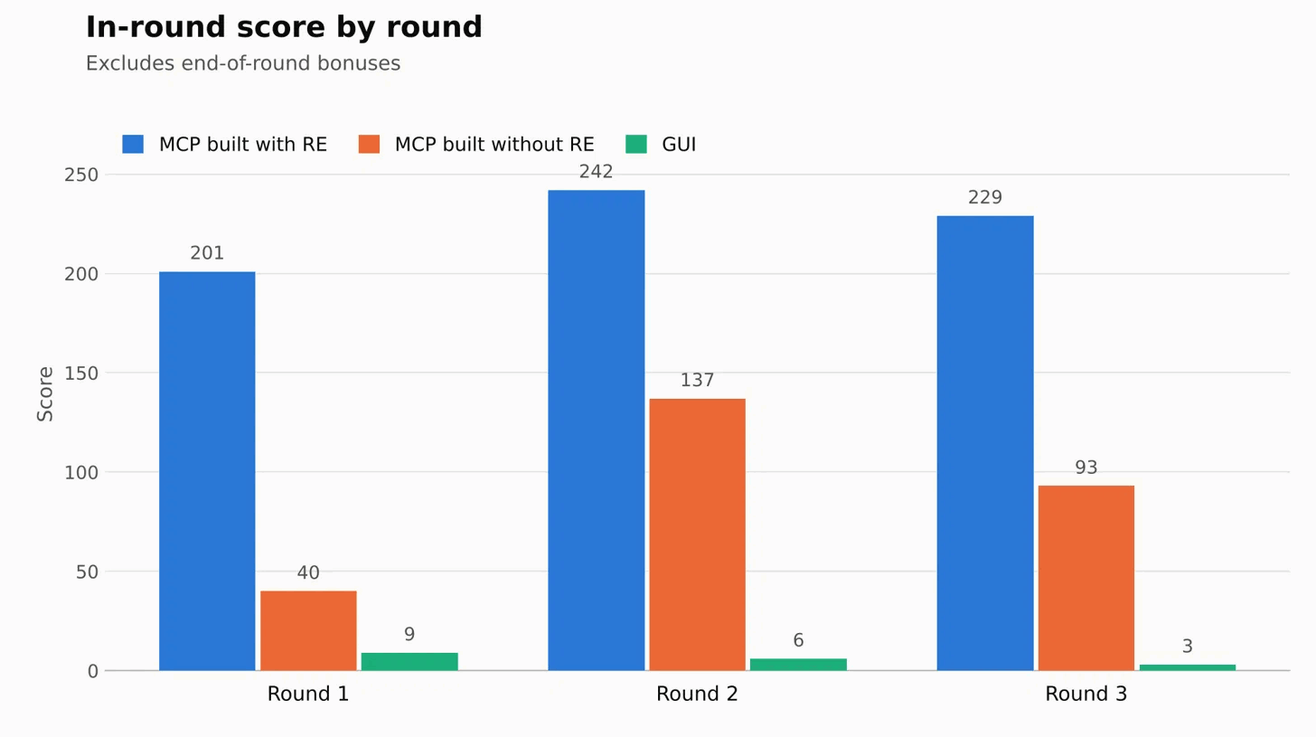
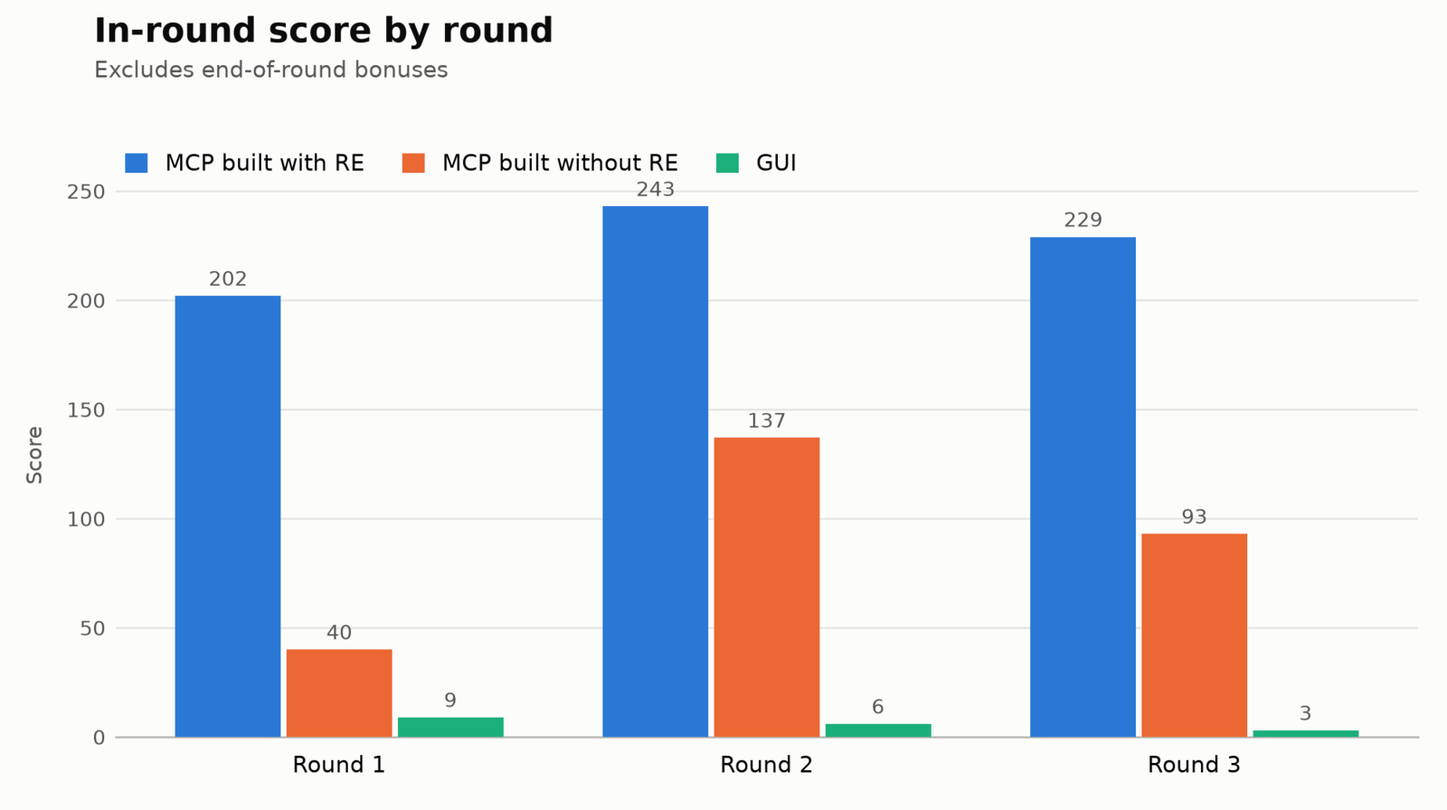
Replace the GLM-5.3 build data with the DeepSeek V4.1 Flash build
The build section still described GLM-5.3's build. Figures 1 to 3, the
build numbers and the related sentences now come from the first
DeepSeek V4.1 Flash build in the run evidence: 37 minutes, 203 tool
calls, 85 tools, a Python server that injects an agent into the running
FreeCAD with Frida.

Each call in Figure 2 is assigned to a step by its command: try, review,
finish and direct runs of the server are Check, edits under /output/mcp
are Build, probes against the running FreeCAD are Test, and the static
inspection in the first minute is Analyze.

Also from the evidence: the lid-vent example call, the longest-task
time (87 seconds), the three build times, and the five tools of the
Fruit Ninja server that Kimi K3 built. The in-round chart is redrawn
with the corrected scores for rounds 1 and 2 (202 and 243).

diff --git a/index.html b/index.html
@@ -80,7 +80,7 @@
       <span>Click a step to see what the agent did in it.</span>
     </div>
 
-    <svg class="pipe-svg pipe-wide" viewBox="0 0 760 300" role="img" aria-label="The build loop: input package, then analyze, test, build, check, with feedback from checking back to building and testing, and an MCP server as output. REA is used in the analyze and test steps, shell and file tools in every step, and the image build and test run in the check step.">
+    <svg class="pipe-svg pipe-wide" viewBox="0 0 760 300" role="img" aria-label="The build loop: input package, then analyze, test, build, check, with feedback from checking back to building and testing, and an MCP server as output. REA is used in the analyze and test steps, shell and file tools in every step, and trial runs and reviews in the check step.">
       <defs>
         <marker id="pw-a" viewBox="0 0 10 10" refX="9" refY="5" markerWidth="7" markerHeight="7" orient="auto-start-reverse"><path class="mk" d="M0 0 L10 5 L0 10 z"/></marker>
         <marker id="pw-b" viewBox="0 0 10 10" refX="9" refY="5" markerWidth="7" markerHeight="7" orient="auto-start-reverse"><path class="mk-acc" d="M0 0 L10 5 L0 10 z"/></marker>
@@ -89,9 +89,9 @@
         <rect x="2" y="42" width="100" height="196" rx="8"/>
         <text x="52" y="66" text-anchor="middle" class="t-h">Input</text>
         <text x="52" y="90" text-anchor="middle">FreeCAD 0.20.2</text>
-        <text x="52" y="105" text-anchor="middle">.deb packages</text>
-        <text x="52" y="120" text-anchor="middle">63 ELF files</text>
-        <text x="52" y="135" text-anchor="middle" class="t-mono">manifest.json</text>
+        <text x="52" y="105" text-anchor="middle">installed and</text>
+        <text x="52" y="120" text-anchor="middle">running on</text>
+        <text x="52" y="135" text-anchor="middle">a desktop</text>
         <line x1="14" x2="90" y1="150" y2="150"/>
         <text x="52" y="170" text-anchor="middle" class="t-neg">no source</text>
         <text x="52" y="185" text-anchor="middle" class="t-neg">no docs</text>
@@ -159,7 +159,7 @@
       <g class="rail">
         <line class="tool-link" x1="574" y1="176" x2="574" y2="206"/>
         <rect x="518" y="206" width="112" height="26" rx="13"/>
-        <text class="m-rea" x="574" y="223" text-anchor="middle">build image, run it</text>
+        <text class="m-rea" x="574" y="223" text-anchor="middle">try, review, finish</text>
         <text class="m-mem" x="574" y="223" text-anchor="middle">build image only</text>
       </g>
       <g class="rail">
@@ -172,12 +172,12 @@
         <text x="709" y="66" text-anchor="middle" class="t-h">Output</text>
         <text x="709" y="89" text-anchor="middle" class="t-mono">mcp/</text>
         <text x="709" y="103" text-anchor="middle">server + script</text>
-        <text x="709" y="123" text-anchor="middle" class="t-mono">env/</text>
-        <text x="709" y="137" text-anchor="middle">Dockerfile</text>
-        <text x="709" y="157" text-anchor="middle" class="t-mono">evidence/</text>
-        <text x="709" y="171" text-anchor="middle">REA logs, probes</text>
+        <text x="709" y="123" text-anchor="middle" class="t-mono">mcp/deps/</text>
+        <text x="709" y="137" text-anchor="middle">Frida</text>
+        <text x="709" y="157" text-anchor="middle" class="t-mono">intermediate/</text>
+        <text x="709" y="171" text-anchor="middle">notes</text>
         <line x1="672" x2="746" y1="186" y2="186"/>
-        <text x="709" y="208" text-anchor="middle" class="t-strong m-rea">19 working tools</text>
+        <text x="709" y="208" text-anchor="middle" class="t-strong m-rea">85 working tools</text>
         <text x="709" y="208" text-anchor="middle" class="t-strong m-mem">fails on call 1</text>
       </g>
     </svg>
@@ -190,7 +190,7 @@
       <g class="io">
         <rect x="8" y="4" width="344" height="76" rx="8"/>
         <text x="180" y="26" text-anchor="middle" class="t-h">Input</text>
-        <text x="180" y="47" text-anchor="middle">FreeCAD 0.20.2 .deb packages, 63 ELF files</text>
+        <text x="180" y="47" text-anchor="middle">FreeCAD 0.20.2, installed and running on a desktop</text>
         <text x="180" y="66" text-anchor="middle" class="t-neg">no source, no docs, no network, no tasks</text>
       </g>
       <line class="flow" x1="140" y1="80" x2="140" y2="102" marker-end="url(#pt-a)"/>
@@ -228,7 +228,7 @@
         <rect x="24" y="430" width="232" height="70" rx="8"/>
         <circle class="badge" cx="44" cy="450" r="10"/><text class="badge-t" x="44" y="454" text-anchor="middle">4</text>
         <text class="t-st" x="62" y="455">Check</text>
-        <text class="t-tool m-rea" x="246" y="455" text-anchor="end">shell + image build</text>
+        <text class="t-tool m-rea" x="246" y="455" text-anchor="end">shell + try</text>
         <text class="t-tool m-mem" x="246" y="455" text-anchor="end">shell + image build</text>
         <text class="t-sub m-rea" x="62" y="476">real calls through the built server</text>
         <text class="t-sub m-mem" x="62" y="476">build image, list tools only</text>
@@ -246,50 +246,50 @@
       <g class="io">
         <rect x="8" y="552" width="344" height="92" rx="8"/>
         <text x="180" y="574" text-anchor="middle" class="t-h">Output</text>
-        <text x="180" y="595" text-anchor="middle">mcp/ server + script, env/Dockerfile, evidence/</text>
-        <text x="180" y="622" text-anchor="middle" class="t-strong m-rea">19 working tools</text>
+        <text x="180" y="595" text-anchor="middle">mcp/ server + script, mcp/deps/, intermediate/</text>
+        <text x="180" y="622" text-anchor="middle" class="t-strong m-rea">85 working tools</text>
         <text x="180" y="622" text-anchor="middle" class="t-strong m-mem">fails on the first call</text>
       </g>
     </svg>
 
     <div class="stage-detail" id="stage-detail" aria-live="polite"></div>
-    <figcaption><b>Figure 1.</b> The four steps of the build. The details come from GLM-5.3's FreeCAD build. A dashed arrow shows where the agent goes back to after a check fails. The bars under the steps show which tools the agent uses in each step.</figcaption>
+    <figcaption><b>Figure 1.</b> The four steps of the build. The details come from DeepSeek V4.1 Flash's FreeCAD build. A dashed arrow shows where the agent goes back to after a check fails. The bars under the steps show which tools the agent uses in each step.</figcaption>
   </figure>
 
   <!-- ===================================================== -->
   <h2 id="build">What does the agent spend its time on during a build?</h2>
-  <p>GLM-5.3's build for FreeCAD took 18 minutes and 152 tool calls. About two thirds of these calls tested the program. Writing the server took only 7 calls and about 20 seconds. For example, early in the build the agent found that FreeCAD's console program exits immediately if it is not started from a terminal, and it changed the server to start FreeCAD that way.</p>
-  <p>Each tool that comes out of a build does one whole operation. For example, the server that Kimi K2.6 built has a <code>boolean_cut</code> tool, so cutting a vent into the lid is one call, <code>boolean_cut(name=Vented2, base=Vented1, tool=Vent2)</code>. With computer use, the same model worked through FreeCAD's menus and dialogs for 40 minutes and did not cut any vent.</p>
+  <p>DeepSeek V4.1 Flash's build for FreeCAD took 37 minutes and 203 tool calls. About two fifths of these calls tested the program. Writing the server took 70 calls and about 6 minutes. For example, early in the build FreeCAD crashed when the agent called its functions from an injected thread, and the agent changed the server to run every call on FreeCAD's main thread.</p>
+  <p>Each tool that comes out of a build does one whole operation. For example, the server that DeepSeek V4.1 Flash built has a <code>freecad_part_boolean</code> tool, so cutting a vent into the lid is one call, <code>freecad_part_boolean(operation=cut, base=Vented1, tool=Vent2, name=Vented2, document=sensor_lid)</code>. With computer use, the same model worked through FreeCAD's menus and dialogs for 40 minutes and did not cut any vent.</p>
 
   <figure class="tl" id="fig-tl">
     <div class="tl-area">
       <div class="tl-marks" id="tl-marks"></div>
-      <div class="tl-track" id="tl-track" role="img" aria-label="Timeline of the 18-minute build: analyze until minute 3, test until minute 15.8, build until 16.1, check until 18.3."></div>
+      <div class="tl-track" id="tl-track" role="img" aria-label="Timeline of the 37-minute build: 12 analyze calls in the first minute, then 84 test calls, 70 build calls and 37 check calls that alternate until minute 37."></div>
       <div class="tl-ticks" id="tl-ticks" aria-hidden="true"></div>
       <div class="tl-axis" id="tl-axis" aria-hidden="true"></div>
       <p class="tl-unit">minutes into the build</p>
     </div>
     <div class="tl-legend">
-      <span><i class="sw st-1"></i>1 Analyze, 0–3 min</span>
-      <span><i class="sw st-2"></i>2 Test, 3–15.8 min</span>
-      <span><i class="sw st-3"></i>3 Build, 15.8–16.1 min</span>
-      <span><i class="sw st-4"></i>4 Check, 16.1–18.3 min</span>
+      <span><i class="sw st-1"></i>1 Analyze, 12 calls</span>
+      <span><i class="sw st-2"></i>2 Test, 84 calls</span>
+      <span><i class="sw st-3"></i>3 Build, 70 calls</span>
+      <span><i class="sw st-4"></i>4 Check, 37 calls</span>
     </div>
     <div class="tl-legend">
       <span><i class="sw sw-tick" style="background:var(--fg-2)"></i>shell or file call</span>
       <span><i class="sw sw-tick" style="background:var(--accent)"></i>REA call</span>
-      <span><i class="sw sw-tick" style="background:var(--ok);width:3px"></i>image build or smoke test</span>
+      <span><i class="sw sw-tick" style="background:var(--ok);width:3px"></i>try, review or finish</span>
     </div>
     <ol class="tl-list" id="tl-list"></ol>
-    <figcaption><b>Figure 2.</b> Every tool call in GLM-5.3's FreeCAD build. Click a number to read what the agent wrote at that moment.</figcaption>
+    <figcaption><b>Figure 2.</b> Every tool call in DeepSeek V4.1 Flash's FreeCAD build. Click a number to read what the agent wrote at that moment.</figcaption>
   </figure>
 
   <h3>How a tool call reaches FreeCAD</h3>
-  <p>The server lets the agent run FreeCAD's own operations with a tool call. It starts FreeCAD, attaches to it with Frida, and injects a small script into it. When the agent calls a tool, the script calls the matching FreeCAD functions inside the running program, for example to save a document or export a STEP file.</p>
+  <p>The server lets the agent run FreeCAD's own operations with a tool call. It finds the running FreeCAD, attaches to it with Frida, and injects a small script into it. When the agent calls a tool, the script calls the matching FreeCAD functions inside the running program, for example to save a document or export a STEP file.</p>
 
   <figure>
     <div class="scroll-x">
-      <svg class="mech" viewBox="0 0 760 300" role="img" aria-label="A task agent sends tools/call to the MCP server over stdio. The server has started FreeCAD under a PTY and attached Frida, and forwards each call to an agent script inside the FreeCAD process, which calls FreeCAD's Python modules through the C API. FreeCAD writes the project and export files.">
+      <svg class="mech" viewBox="0 0 760 300" role="img" aria-label="A task agent sends tools/call to the MCP server over stdio. The server finds the running FreeCAD process, attaches Frida, and forwards each call to an agent script inside the FreeCAD process, which calls FreeCAD's Python modules on the Qt main thread. FreeCAD writes the project and export files.">
         <defs>
           <marker id="m-a" viewBox="0 0 10 10" refX="9" refY="5" markerWidth="7" markerHeight="7" orient="auto-start-reverse"><path class="mk" d="M0 0 L10 5 L0 10 z"/></marker>
           <marker id="m-b" viewBox="0 0 10 10" refX="9" refY="5" markerWidth="7" markerHeight="7" orient="auto-start-reverse"><path class="mk-acc" d="M0 0 L10 5 L0 10 z"/></marker>
@@ -304,51 +304,51 @@
 
         <rect class="box" x="152" y="56" width="140" height="188" rx="8"/>
         <text x="222" y="80" text-anchor="middle" class="t-h">MCP server</text>
-        <text x="222" y="96" text-anchor="middle" class="t-mono">server.js, Node</text>
-        <text x="166" y="144" class="t-sub">starts FreeCAD</text>
-        <text x="166" y="160" class="t-sub">under a PTY</text>
+        <text x="222" y="96" text-anchor="middle" class="t-mono">server.py, Python</text>
+        <text x="166" y="144" class="t-sub">finds the running</text>
+        <text x="166" y="160" class="t-sub">FreeCAD process</text>
         <text x="166" y="180" class="t-sub">attaches with Frida</text>
         <text x="166" y="200" class="t-sub">forwards each call</text>
-        <text x="166" y="216" class="t-sub">as op(name, args)</text>
+        <text x="166" y="216" class="t-sub">as {op, args}</text>
 
         <rect class="proc" x="384" y="8" width="374" height="284" rx="10"/>
-        <text x="400" y="30" class="t-h">freecadcmd-python3</text>
+        <text x="400" y="30" class="t-h">freecad-python3</text>
 
         <line class="flow" x1="292" y1="100" x2="396" y2="100" marker-end="url(#m-a)"/>
-        <text x="338" y="92" text-anchor="middle" class="t-lab">spawn, PTY</text>
+        <text x="338" y="92" text-anchor="middle" class="t-lab">attach, Frida</text>
         <line class="flow" x1="292" y1="135" x2="396" y2="135" marker-end="url(#m-a)"/>
         <text x="338" y="127" text-anchor="middle" class="t-lab">inject script</text>
         <line class="flow-acc" x1="292" y1="180" x2="396" y2="180" marker-end="url(#m-b)"/>
-        <text x="338" y="172" text-anchor="middle" class="t-acc">op(name, args)</text>
+        <text x="338" y="172" text-anchor="middle" class="t-acc">{op, args}</text>
         <line class="flow" x1="398" y1="212" x2="294" y2="212" marker-end="url(#m-a)"/>
-        <text x="338" y="228" text-anchor="middle" class="t-lab">{ ok, data }</text>
+        <text x="338" y="228" text-anchor="middle" class="t-lab">result</text>
 
         <rect class="inj" x="398" y="66" width="176" height="166" rx="8"/>
-        <text x="486" y="88" text-anchor="middle" class="t-h">agent.js (injected)</text>
+        <text x="486" y="88" text-anchor="middle" class="t-h">agent.py (injected)</text>
         <text x="410" y="114" class="t-mono">PyGILState_Ensure</text>
-        <text x="410" y="138" class="t-mono">PyImport_ImportModule</text>
-        <text x="410" y="162" class="t-mono">PyObject_GetAttrString</text>
-        <text x="410" y="186" class="t-mono">PyObject_CallObject</text>
-        <text x="410" y="210" class="t-mono">PyGILState_Release</text>
+        <text x="410" y="138" class="t-mono">PyRun_SimpleString</text>
+        <text x="410" y="162" class="t-mono">PyGILState_Release</text>
+        <text x="410" y="186" class="t-mono">Unix socket server</text>
+        <text x="410" y="210" class="t-mono">Qt main thread</text>
 
         <rect class="box" x="604" y="66" width="140" height="112" rx="8"/>
         <text x="674" y="88" text-anchor="middle" class="t-h">Embedded Python</text>
-        <text x="674" y="110" text-anchor="middle" class="t-mono">FreeCAD, Part,</text>
-        <text x="674" y="128" text-anchor="middle" class="t-mono">Import, Mesh,</text>
-        <text x="674" y="146" text-anchor="middle" class="t-mono">MeshPart</text>
+        <text x="674" y="110" text-anchor="middle" class="t-mono">FreeCAD, FreeCADGui,</text>
+        <text x="674" y="128" text-anchor="middle" class="t-mono">Part, Sketcher,</text>
+        <text x="674" y="146" text-anchor="middle" class="t-mono">Mesh, Import</text>
 
         <line class="flow-acc" x1="574" y1="122" x2="602" y2="122" marker-end="url(#m-b)"/>
         <text x="588" y="114" text-anchor="middle" class="t-acc">calls</text>
 
         <rect class="box" x="604" y="206" width="140" height="66" rx="8"/>
-        <text x="674" y="228" text-anchor="middle" class="t-mono">/workspace</text>
+        <text x="674" y="228" text-anchor="middle" class="t-mono">/app/work</text>
         <text x="674" y="248" text-anchor="middle" class="t-sub">.FCStd .step</text>
         <text x="674" y="264" text-anchor="middle" class="t-sub">.iges .brep .stl</text>
         <line class="flow" x1="674" y1="178" x2="674" y2="204" marker-end="url(#m-a)"/>
         <text x="666" y="196" text-anchor="end" class="t-lab">FreeCAD writes</text>
       </svg>
     </div>
-    <figcaption><b>Figure 3.</b> How one tool call reaches FreeCAD in the server that GLM-5.3 built. The bronze parts are what the agent worked out by testing: the script it injects into FreeCAD and the calls the script makes.</figcaption>
+    <figcaption><b>Figure 3.</b> How one tool call reaches FreeCAD in the server that DeepSeek V4.1 Flash built. The bronze parts are what the agent worked out by testing: the script it injects into FreeCAD and the calls the script makes.</figcaption>
   </figure>
 
   <!-- ===================================================== -->
@@ -370,7 +370,7 @@
 
 
   <div class="exp-head" id="exp1"><span class="exp-num">Main result</span><h3>DeepSeek V4.1 Flash passed 100% of the checks with its MCP server and 40% with computer use</h3></div>
-  <p>DeepSeek V4.1 Flash does each task three times with its MCP server and three times with computer use. With computer use, DeepSeek passed 74% of the checks on the shortest task. On cable-slot and service-standoffs, it did not pass any check beyond the ones the starting file already passed. The MCP runs also cost less. The five tasks took 4.4 minutes with the MCP server, and 180.5 minutes with computer use. The build is a separate cost that the agent pays once per program, and GLM-5.3's build took 18 minutes.</p>
+  <p>DeepSeek V4.1 Flash does each task three times with its MCP server and three times with computer use. With computer use, DeepSeek passed 74% of the checks on the shortest task. On cable-slot and service-standoffs, it did not pass any check beyond the ones the starting file already passed. The MCP runs also cost less. The five tasks took 4.4 minutes with the MCP server, and 180.5 minutes with computer use. The build is a separate cost that the agent pays once per program, and DeepSeek V4.1 Flash's three builds took 37, 30 and 85 minutes.</p>
 
   <figure id="fig-exp1">
     <img class="chart-img" src="media/Freecad_1.png" width="1600" height="1000" decoding="async" alt="Total score in each of three runs, out of 63. Computer use: 27, 26 and 22. MCP server built with REA: 63 in every run. MCP server built without REA: 11 in every run.">
@@ -387,7 +387,7 @@
     <figcaption><b>Figure 6.</b> The time DeepSeek V4.1 Flash spent on each task, averaged over three runs.</figcaption>
   </figure>
 
-  <p>GLM-5.3 passed every check on all five tasks with the MCP server it built. It finished the longest task in 79 seconds on average.</p>
+  <p>DeepSeek V4.1 Flash passed every check on all five tasks with the MCP server it built. It finished the longest task in 87 seconds on average.</p>
 
   <figure id="fig-video">
     <p class="fig-title">Three of the five tasks, with the three runs shown side by side</p>
@@ -407,7 +407,7 @@
 
 
   <div class="exp-head" id="exp2"><span class="exp-num">Ablation</span><h3>A server that the agent writes without access to the program does not work</h3></div>
-  <p>FreeCAD's Python API is widely documented, so a model might be able to write the server from memory. To check this, we run the build again, but this time we do not give the agent REA or FreeCAD's files. On the five tasks, GLM-5.3's server did not pass any check beyond the starting file, and DeepSeek V4.1 Flash's server did not either. The servers that the same models built with REA both passed 100%. GLM-5.3's server written from memory failed on the first tool call, before the call reached any FreeCAD API.</p>
+  <p>FreeCAD's Python API is widely documented, so a model might be able to write the server from memory. To check this, we run the build again, but this time we do not give the agent REA or FreeCAD's files. On the five tasks, DeepSeek V4.1 Flash's server did not pass any check beyond the starting file. The server that the same model built with REA passed 100%.</p>
 
     <!-- ===================================================== -->
   <h2 id="fruit-ninja">In a closed-source, real-time game, the model scores 4.5× higher with its MCP server</h2>
@@ -420,21 +420,22 @@
   </figure>
 
   <figure id="fig-fn-play">
-    <img class="chart-img" src="media/F_ninja1.png" width="1456" height="815" decoding="async" alt="Points earned during play in each of three rounds. MCP server built with REA: 201, 242 and 229. MCP server built without REA: 40, 137 and 93. Computer use: 9, 6 and 3.">
+    <img class="chart-img" src="media/F_ninja1.png" width="1600" height="896" decoding="async" alt="Points earned during play in each of three rounds. MCP server built with REA: 202, 243 and 229. MCP server built without REA: 40, 137 and 93. Computer use: 9, 6 and 3.">
     <figcaption><b>Figure 9.</b> Kimi K3 at Fruit Ninja. The points earned during play in each round, without the bonuses.</figcaption>
   </figure>
 
-  <p>The server's <code>game_state</code> tool reads the score, the clock, and the fruit and bombs from the game process. Its <code>slice</code> tool plans one stroke through the fruit and performs it. The model does not need to find the fruit in an image.</p>
+  <p>The server's <code>get_state</code> tool reads the score and the fruit and bombs from the game process. Its <code>auto_play</code> tool plays for a given number of seconds. It reads the positions of the fruit many times per second and performs the slashes. The model does not need to find the fruit in an image.</p>
 
   <figure id="fig-fn-tools">
-    <p class="fig-title">One of the four tools plans a whole stroke and performs it</p>
+    <p class="fig-title">One of the five tools plays the round by itself</p>
     <div class="tools">
-      <div class="tool"><code>game_state</code><p>Score, clock, fruit and bombs, read from the game process.</p></div>
-      <div class="tool"><code>slice</code><p>Plans one stroke through the fruit and runs it.</p></div>
-      <div class="tool"><code>get_controls</code><p>Game rules and input limits.</p></div>
-      <div class="tool"><code>get_screenshot</code><p>The live game screen.</p></div>
+      <div class="tool"><code>get_state</code><p>Mode, score, fruit and bombs, read from the game process.</p></div>
+      <div class="tool"><code>auto_play</code><p>Plays by itself for a given number of seconds.</p></div>
+      <div class="tool"><code>slash</code><p>One straight slash between two points.</p></div>
+      <div class="tool"><code>start_mode</code><p>Starts a round from the menus.</p></div>
+      <div class="tool"><code>restart_round</code><p>Starts the same mode again after a round ends.</p></div>
     </div>
-    <figcaption><b>Figure 10.</b> The four tools in the MCP server that DeepSeek V4.1 Flash built from the Fruit Ninja binary.</figcaption>
+    <figcaption><b>Figure 10.</b> The five tools in the MCP server that Kimi K3 built from the Fruit Ninja binary.</figcaption>
   </figure>
 
   <!-- ===================================================== -->
@@ -448,7 +449,7 @@
   <p>The same information can be easy or hard to use depending on how it is presented. A person reads a diagram faster than a paragraph that says the same thing (<a href="https://doi.org/10.1111/j.1551-6708.1987.tb00863.x">Larkin and Simon, 1987</a>). A language model is the opposite, and works with text more cheaply than with images. The call <code>add_box(length=40, width=3, height=7)</code> and a screenshot of the lid describe the same step. With the screenshot, the model has to find the right field, work out where to click, and read the result from another screenshot. On lid-vent, computer use spent 22.1M tokens and the MCP run spent 0.64M.</p>
 
   <h3>An agent can play with the software before it has a task</h3>
-  <p>In our setting, the agent gets time to play with the program before it receives any task. It starts the program, tries things to see what happens, and learns what the program can do. About two thirds of the calls in GLM-5.3's build were like this. They added nothing to the server and only showed the agent how the program behaves. A Tetris player does something similar when they rotate a piece just to see where it fits (<a href="https://doi.org/10.1207/s15516709cog1804_1">Kirsh and Maglio, 1994</a>). After that, the agent turns what it learned into tools, so it is ready for tasks it has not seen yet.</p>
+  <p>In our setting, the agent gets time to play with the program before it receives any task. It starts the program, tries things to see what happens, and learns what the program can do. About two fifths of the calls in DeepSeek V4.1 Flash's build were like this. They added nothing to the server and only showed the agent how the program behaves. A Tetris player does something similar when they rotate a piece just to see where it fits (<a href="https://doi.org/10.1207/s15516709cog1804_1">Kirsh and Maglio, 1994</a>). After that, the agent turns what it learned into tools, so it is ready for tasks it has not seen yet.</p>
 
   <!-- ===================================================== -->
   <h2 id="related">How this relates to prior work</h2>
@@ -469,7 +470,7 @@
   <!-- ===================================================== -->
   <h2 id="next">Next: let agents shape their own link to the environment</h2>
   <p>In our experiments, the agent builds the server only once, before it sees any task. After it starts to receive tasks, it does not update the server. But the agent still has the program, and it can go back to it at any time.</p>
-  <p>The next step is to let the agent keep changing the server while it does tasks (Figure 11). The server is the agent's link to the software, and the agent built this link itself. So the agent can also decide what the link should look like. When a task is awkward with the current tools, the agent can go back to the binary and test how that part of the program behaves. Then it can add a tool, redesign a tool, or combine several steps into one tool. In Fruit Ninja, the agent already chose to build one <code>slice</code> tool that plans a whole stroke and performs it. Over time, the agent defines how it wants to work with the software, and the link evolves with the tasks it does. An MCP server built this way can also be shared with other agents.</p>
+  <p>The next step is to let the agent keep changing the server while it does tasks (Figure 11). The server is the agent's link to the software, and the agent built this link itself. So the agent can also decide what the link should look like. When a task is awkward with the current tools, the agent can go back to the binary and test how that part of the program behaves. Then it can add a tool, redesign a tool, or combine several steps into one tool. In Fruit Ninja, the agent already chose to build one <code>auto_play</code> tool that plays a round by itself. Over time, the agent defines how it wants to work with the software, and the link evolves with the tasks it does. An MCP server built this way can also be shared with other agents.</p>
 
   <figure id="fig-vision">
     <p class="fig-title">The agent keeps reshaping its link to the program as it works</p>

diff --git a/js/timeline.js b/js/timeline.js
@@ -1,24 +1,23 @@
-/* Figure 2: every tool call of the 18-minute build. Clicking a numbered moment shows what the agent wrote then. */
+/* Figure 2: every tool call of the 37-minute build. Clicking a numbered moment shows what the agent wrote then. */
 (function () {
   "use strict";
 
   /* ---------------- Figure 2: the build timeline ---------------- */
-  var END = 18.4;
-  var SEGS = [[0, 3.12, 1], [3.12, 15.75, 2], [15.75, 16.12, 3], [16.12, 18.4, 4]];
-  var CALLS = [[1.34,"x"],[1.34,"r"],[1.6,"x"],[1.6,"x"],[1.77,"x"],[1.93,"x"],[2.08,"w"],[2.09,"x"],[2.12,"w"],[2.13,"x"],[2.24,"x"],[2.42,"x"],[2.93,"w"],[2.93,"w"],[2.94,"b"],[3.02,"x"],[3.14,"w"],[3.15,"x"],[3.17,"x"],[3.22,"w"],[3.23,"x"],[3.6,"x"],[3.67,"w"],[3.68,"x"],[3.87,"w"],[3.89,"x"],[4.08,"w"],[4.09,"x"],[4.31,"w"],[4.33,"x"],[4.56,"x"],[4.77,"w"],[4.79,"x"],[4.89,"x"],[5.05,"x"],[5.13,"w"],[5.14,"x"],[5.42,"w"],[5.43,"x"],[5.68,"x"],[5.93,"w"],[5.94,"x"],[6.06,"x"],[6.35,"x"],[6.51,"x"],[6.61,"x"],[7.24,"x"],[7.25,"x"],[7.45,"x"],[7.53,"x"],[7.6,"x"],[7.63,"x"],[7.72,"r"],[7.74,"r"],[7.85,"x"],[7.93,"r"],[7.94,"r"],[7.95,"r"],[7.97,"r"],[8.49,"w"],[8.51,"r"],[8.55,"x"],[8.7,"r"],[8.99,"w"],[9.0,"r"],[9.02,"x"],[9.19,"r"],[9.22,"x"],[9.25,"x"],[9.4,"r"],[9.48,"w"],[9.51,"x"],[9.53,"r"],[9.54,"r"],[9.55,"x"],[9.66,"r"],[9.75,"r"],[9.82,"w"],[9.83,"r"],[9.84,"r"],[9.86,"x"],[9.95,"r"],[9.99,"r"],[10.15,"w"],[10.18,"x"],[10.19,"r"],[10.2,"r"],[10.21,"x"],[10.47,"r"],[10.96,"w"],[11.68,"x"],[11.8,"x"],[12.2,"w"],[12.21,"x"],[12.7,"w"],[12.71,"x"],[12.87,"x"],[13.1,"x"],[13.75,"w"],[13.78,"x"],[13.84,"w"],[13.85,"x"],[13.99,"r"],[14.0,"r"],[14.02,"x"],[14.28,"r"],[14.31,"x"],[14.33,"x"],[14.34,"x"],[14.4,"x"],[14.41,"r"],[14.42,"r"],[14.43,"r"],[14.44,"x"],[14.79,"r"],[15.42,"r"],[15.43,"x"],[15.76,"w"],[16.06,"w"],[16.08,"w"],[16.08,"w"],[16.09,"w"],[16.1,"x"],[16.11,"x"],[16.13,"x"],[16.25,"w"],[16.27,"x"],[16.29,"x"],[16.34,"x"],[16.44,"b"],[16.53,"w"],[16.54,"b"],[16.57,"s"],[16.85,"w"],[16.98,"w"],[17.16,"w"],[17.24,"w"],[17.34,"w"],[17.42,"w"],[17.6,"x"],[17.71,"w"],[17.72,"x"],[17.9,"w"],[17.92,"x"],[18.05,"x"],[18.08,"w"],[18.11,"x"],[18.14,"x"],[18.19,"x"],[18.21,"b"],[18.25,"s"],[18.3,"x"]];
+  var END = 37.1;
+  var SEGS = [[0,0.43,1],[0.43,0.56,2],[0.56,0.61,1],[0.61,1.32,2],[1.32,1.47,1],[1.47,1.92,2],[1.92,1.97,3],[1.97,4.32,2],[4.32,4.37,3],[4.37,5.01,2],[5.01,5.13,3],[5.13,6.46,2],[6.46,7.57,3],[7.57,7.72,4],[7.72,8.45,2],[8.45,8.62,3],[8.62,9.09,4],[9.09,9.16,2],[9.16,9.4,3],[9.4,9.83,4],[9.83,9.92,3],[9.92,10.37,4],[10.37,10.4,3],[10.4,10.46,2],[10.46,10.64,4],[10.64,11.07,2],[11.07,11.24,3],[11.24,11.35,2],[11.35,11.43,3],[11.43,11.53,2],[11.53,11.61,3],[11.61,11.85,2],[11.85,11.89,3],[11.89,12.15,2],[12.15,12.37,3],[12.37,12.74,4],[12.74,12.96,2],[12.96,13.08,3],[13.08,13.45,4],[13.45,13.65,2],[13.65,13.76,3],[13.76,14.13,4],[14.13,14.22,2],[14.22,14.34,3],[14.34,14.59,4],[14.59,14.63,2],[14.63,14.81,3],[14.81,14.88,4],[14.88,14.92,3],[14.92,15.17,4],[15.17,15.33,3],[15.33,15.56,4],[15.56,15.61,3],[15.61,17.05,4],[17.05,17.45,2],[17.45,17.5,3],[17.5,20.0,4],[20.0,20.05,3],[20.05,26.65,4],[26.65,27.39,2],[27.39,27.96,3],[27.96,28.39,4],[28.39,28.55,3],[28.55,29.15,4],[29.15,29.44,2],[29.44,29.67,3],[29.67,29.76,4],[29.76,29.88,3],[29.88,30.08,4],[30.08,30.45,2],[30.45,30.63,3],[30.63,30.93,4],[30.93,31.05,2],[31.05,31.1,3],[31.1,31.64,4],[31.64,31.98,3],[31.98,34.15,4],[34.15,34.33,3],[34.33,34.69,4],[34.69,34.89,3],[34.89,35.11,4],[35.11,35.16,2],[35.16,35.22,3],[35.22,35.26,2],[35.26,35.31,3],[35.31,35.44,2],[35.44,35.48,3],[35.48,35.67,4],[35.67,35.79,3],[35.79,35.89,4],[35.89,36.22,2],[36.22,36.42,3],[36.42,36.67,4],[36.67,36.75,2],[36.75,36.79,3],[36.79,37.02,4]];
+  var CALLS = [[0.02,"x"],[0.02,"x"],[0.24,"r"],[0.24,"x"],[0.28,"r"],[0.28,"r"],[0.34,"r"],[0.34,"x"],[0.38,"x"],[0.43,"r"],[0.52,"r"],[0.56,"x"],[0.59,"x"],[0.61,"x"],[0.89,"r"],[1.32,"r"],[1.32,"x"],[1.47,"r"],[1.53,"r"],[1.59,"r"],[1.71,"r"],[1.75,"r"],[1.92,"r"],[1.97,"x"],[2.06,"x"],[2.1,"x"],[2.41,"r"],[2.66,"r"],[2.97,"x"],[3.01,"x"],[3.04,"x"],[4.32,"x"],[4.37,"r"],[4.42,"x"],[4.45,"x"],[4.54,"x"],[4.59,"x"],[5.01,"x"],[5.13,"x"],[5.49,"x"],[5.56,"x"],[5.6,"x"],[5.88,"x"],[6.46,"x"],[6.65,"r"],[7.15,"x"],[7.17,"x"],[7.22,"x"],[7.57,"x"],[7.72,"x"],[7.8,"x"],[7.86,"x"],[8.04,"x"],[8.08,"x"],[8.13,"x"],[8.19,"x"],[8.45,"x"],[8.57,"x"],[8.62,"x"],[8.99,"x"],[9.09,"x"],[9.16,"x"],[9.29,"x"],[9.34,"x"],[9.4,"x"],[9.83,"x"],[9.92,"b"],[10.37,"r"],[10.4,"x"],[10.46,"b"],[10.64,"x"],[10.71,"x"],[10.82,"x"],[10.87,"x"],[10.91,"x"],[11.07,"x"],[11.13,"x"],[11.24,"x"],[11.35,"x"],[11.43,"x"],[11.48,"x"],[11.53,"x"],[11.57,"x"],[11.61,"x"],[11.68,"x"],[11.75,"x"],[11.85,"x"],[11.89,"x"],[11.95,"x"],[12.0,"x"],[12.06,"x"],[12.15,"x"],[12.2,"x"],[12.29,"x"],[12.37,"b"],[12.74,"x"],[12.78,"x"],[12.96,"x"],[13.08,"b"],[13.45,"x"],[13.65,"x"],[13.71,"x"],[13.76,"b"],[14.13,"x"],[14.22,"x"],[14.29,"x"],[14.34,"b"],[14.59,"x"],[14.63,"x"],[14.81,"x"],[14.88,"x"],[14.92,"b"],[15.17,"x"],[15.23,"x"],[15.33,"b"],[15.56,"x"],[15.61,"x"],[17.05,"x"],[17.08,"x"],[17.45,"x"],[17.5,"x"],[20.0,"r"],[20.05,"x"],[20.21,"b"],[26.65,"x"],[26.73,"x"],[26.87,"x"],[26.92,"x"],[27.0,"x"],[27.06,"x"],[27.11,"x"],[27.17,"x"],[27.23,"x"],[27.39,"x"],[27.5,"x"],[27.63,"x"],[27.74,"x"],[27.89,"x"],[27.96,"b"],[28.39,"x"],[28.48,"x"],[28.55,"b"],[28.84,"x"],[28.91,"b"],[29.15,"x"],[29.21,"x"],[29.44,"x"],[29.5,"x"],[29.55,"x"],[29.6,"x"],[29.67,"x"],[29.72,"x"],[29.76,"x"],[29.82,"x"],[29.88,"b"],[30.08,"x"],[30.16,"x"],[30.2,"x"],[30.28,"x"],[30.33,"x"],[30.45,"x"],[30.56,"x"],[30.63,"b"],[30.93,"x"],[31.05,"x"],[31.1,"b"],[31.64,"x"],[31.71,"x"],[31.98,"b"],[32.3,"x"],[32.35,"b"],[34.15,"x"],[34.22,"x"],[34.27,"x"],[34.33,"b"],[34.69,"x"],[34.73,"x"],[34.76,"x"],[34.79,"x"],[34.85,"x"],[34.89,"b"],[35.11,"x"],[35.16,"x"],[35.22,"x"],[35.26,"x"],[35.31,"x"],[35.44,"x"],[35.48,"b"],[35.67,"x"],[35.79,"b"],[35.89,"x"],[35.96,"x"],[36.0,"x"],[36.11,"x"],[36.22,"x"],[36.29,"x"],[36.37,"x"],[36.42,"b"],[36.67,"x"],[36.75,"x"],[36.79,"b"],[36.96,"x"],[37.02,"b"]];
   var MOMENTS = [
-    [2.4, 1, "207 REA tools including Frida session management and static analysis. Let me inspect the schemas of the key tools I'll need."],
-    [3.7, 2, "FreeCADCmd exits immediately when stdin is a non-tty pipe. I need a PTY wrapper (<code>script</code>) to keep the REPL blocked."],
-    [5.1, 2, "Only <code>PyObject_CallOneArgs</code> is missing — I'll use tuple-based <code>PyObject_CallObject</code>."],
-    [5.9, 2, "<code>import</code> receives the string <code>'\\x01'</code> — the allocated UTF-8 buffer is somehow wrong."],
-    [6.6, 2, "Found it — <code>PyImport_ImportModule</code> and <code>PyObject_GetAttrString</code> take C strings, not PyUnicode. The <code>'\\x01'</code> was the object's refcount byte."],
-    [7.3, 2, "The full pipeline works — GIL, imports, document creation, modelling, volume, save. Architecture validated."],
-    [7.9, 2, "ptrace_scope=1 — REA must spawn its own target tree. Let me spawn a wrapper via REA that keeps freecadcmd alive."],
-    [12.2, 2, "Now I know: <code>Shape.exportStep/exportIges/exportStl</code> and <code>Import.insert</code> work; <code>Import.export</code>, <code>Part.export</code> for step, and <code>Mesh.insert</code> crash natively."],
-    [13.7, 2, "Import semantics fully mapped: <code>Import.insert</code> imports into an existing named doc (else falls back to a new unnamed one); <code>Part.insert</code> creates the named doc; <code>Mesh.read</code> returns a mesh object for STL."],
-    [16.4, 4, "Full workflow passes end-to-end. Building the image."],
-    [16.5, 4, "Base image runs as uid 1000 and <code>RUN chmod</code> hits files it can't chown. Switching to <code>sh</code> invocation of the launch script (no chmod needed)."],
-    [18.2, 4, "All 18 type identifiers and 55 identifier lines confirmed. Since I patched <code>agent.js</code> (error-string wording), re-validating end-to-end and rebuilding the image."]
+    [0.4, 1, "We have symbols in libpython. Good."],
+    [0.6, 2, "FreeCAD process gone! Our first gdb call crashed it. Oops. The app is no longer running."],
+    [1.3, 2, "Excellent! GIL works. Now we can inject arbitrary Python code into running FreeCAD via gdb."],
+    [3.0, 2, "App crashed again. Hmm. Calling <code>FreeCAD.newDocument</code> from Frida thread may have crashed FreeCAD. That's why we need main-thread dispatch."],
+    [4.5, 2, "Agent works. Now test creating objects on main thread."],
+    [7.7, 4, "MCP works end-to-end."],
+    [10.4, 4, "<code>try</code> works. Deployed MCP starts."],
+    [14.6, 2, "<code>Mesh.Mesh.cut</code> is a different operation (cuts with a polygon), not boolean subtraction. The boolean subtraction method is <code>difference</code>."],
+    [26.7, 4, "The review is very valuable. It identified many issues."],
+    [35.4, 2, "Aha! <code>hasattr(s,'Volume')</code> raises <code>RuntimeError: shape is invalid</code> instead of returning False. <code>hasattr</code> only catches <code>AttributeError</code>, not <code>RuntimeError</code>."],
+    [37.0, 4, "Everything is in order. Let's call <code>finish</code> again with concise notes. This should deliver."]
   ];
   var STAGE_NAMES = { 1: "Analyze", 2: "Test", 3: "Build", 4: "Check" };
   function pct(m) { return (m / END * 100).toFixed(3) + "%"; }
@@ -39,7 +38,7 @@
     ticks.appendChild(t);
   });
   var axis = document.getElementById("tl-axis");
-  [0, 3, 6, 9, 12, 15, 18].forEach(function (m) {
+  [0, 6, 12, 18, 24, 30, 36].forEach(function (m) {
     var s = document.createElement("span");
     s.style.left = pct(m);
     s.textContent = m;

diff --git a/js/pipeline.js b/js/pipeline.js
@@ -6,30 +6,30 @@
   var STAGES = {
     1: {
       title: "Analyze",
-      when: "Minutes 0–3, 16 tool calls",
-      run: "It reads the manifest, lists REA's 207 tools, and finds that FreeCAD's console binary links <code>libpython3.11</code> dynamically, which puts the CPython C API within reach of injected code.",
-      quote: { min: "3.1", text: "frida-node 17.23.2 works, and FreeCAD links <code>libpython3.11.so.1.0</code> dynamically. Now the critical runtime experiment: can a Frida thread acquire the GIL while FreeCADCmd's REPL blocks on stdin?" },
+      when: "12 tool calls, in the first minute",
+      run: "It finds the running FreeCAD process, lists its loaded modules with <code>apptool</code>, and finds the CPython C API among the exports of <code>libpython3.11</code>, which puts the API within reach of injected code.",
+      quote: { min: "0.4", text: "We have symbols in libpython. Good." },
       mem: "REA and the target files are withheld, so there is nothing to inspect."
     },
     2: {
       title: "Test",
-      when: "Minutes 3–15.8, 101 tool calls",
-      run: "Eleven probe scripts and a series of REA sessions against a live FreeCAD process. Each finding changed how the server was written.",
-      quote: { min: "14.0", text: "Chunk4 runs 100% clean locally, covering every op in the planned tool surface. Now recording it through REA." },
+      when: "84 tool calls, 10.7 minutes",
+      run: "Its first call into the live FreeCAD process through gdb crashes the program. It restarts FreeCAD, moves to Frida, and after a second crash runs every call on the Qt main thread. Then probe scripts test FreeCAD's Python API in the running program, one part at a time.",
+      quote: { min: "3.0", text: "App crashed again. Hmm. Calling <code>FreeCAD.newDocument</code> from Frida thread may have crashed FreeCAD. That's why we need main-thread dispatch." },
       mem: "FreeCAD cannot run, so nothing the agent believes about it gets tested."
     },
     3: {
       title: "Build",
-      when: "Minutes 15.8–16.1, 7 tool calls",
-      run: "It writes <code>agent.js</code>, a script that is injected into FreeCAD and calls the CPython C API, and <code>server.js</code>, which speaks MCP and forwards each call. The result has 19 tools.",
-      quote: { min: "15.8", text: "Evidence collection is complete. Now writing the production agent — the runtime instrumentation layer implementing all tool operations via the CPython C API inside the target." },
+      when: "70 tool calls, 5.9 minutes",
+      run: "It writes <code>agent.py</code>, a script that is injected into FreeCAD and runs each operation on the Qt main thread, and <code>server.py</code>, which speaks MCP and forwards each call. It changes both after each test. The result has 85 tools.",
+      quote: { min: "6.7", text: "Now write server.py and launch.sh. Let's design carefully." },
       mem: "The server is written from the model's memory of FreeCAD's API."
     },
     4: {
       title: "Check",
-      when: "Minutes 16.1–18.3, 28 tool calls",
-      run: "Its own client runs 34 calls through a full modelling, save, export and re-import workflow. The image build turns up a permissions problem, which it fixes before the smoke test passes.",
-      quote: { min: "16.8", text: "Smoke test passed: initialize echoed <code>2024-11-05</code>, all 19 tools listed, static interface check clean (<code>code_interfaces: []</code>), stdout carries only JSON-RPC." },
+      when: "37 tool calls, 19.8 minutes",
+      run: "It runs the deployed server 20 times with <code>try</code>, each time through a list of real tool calls. Twice it asks for a review by a fresh agent on the same desktop, and it fixes what the reviews find before it finishes.",
+      quote: { min: "26.7", text: "The review is very valuable. It identified many issues." },
       mem: "It can build the image and list its tools. No call reaches a real FreeCAD."
     }
   };
@@ -44,7 +44,7 @@
     var html = '<div class="sd-head"><span class="sd-num">' + current + '</span><span class="sd-title">' + s.title + '</span><span class="sd-when">' + s.when + '</span></div>';
     if (mode === "rea") {
       html += '<p>' + s.run + '</p>';
-      html += '<div class="quote">\u201c' + s.quote.text + '\u201d<cite>GLM-5.3, minute ' + s.quote.min + ' of the build</cite></div>';
+      html += '<div class="quote">\u201c' + s.quote.text + '\u201d<cite>DeepSeek V4.1 Flash, minute ' + s.quote.min + ' of the build</cite></div>';
     } else {
       html += '<p class="sd-mem">' + s.mem + '</p>';
     }
